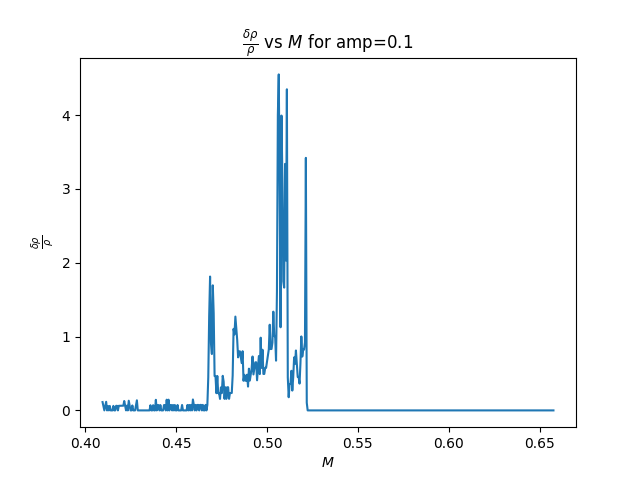
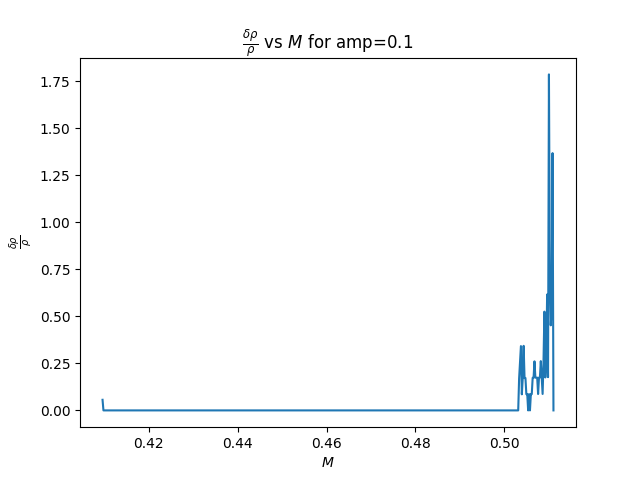
Added new plots

diff --git a/density_mach.py b/density_mach.py
@@ -4,14 +4,14 @@ import matplotlib.pyplot as plt
 #Declare all parameters and filenames, file location
 
 #Load data files
-amp=0.35
+amp=0.1
 filedir1='/mnt/lustre/ug4/ugrajs/fiducial_runs/256/amp'+str(int(amp*1000)).rjust(3,'0')+'/'
 file=filedir1+'pluto_hst.out'
 fname = open(file,'rt')
 data1 = np.loadtxt(file, skiprows=1)
 #num_bins denotes the number of bins into which mach number distribution is divided into
 num_bins=500
-t_start1=2.0
+t_start1=7.0
 
 for i in xrange(0,data1.shape[0]):
   if data1[:,0][i]>t_start1:
